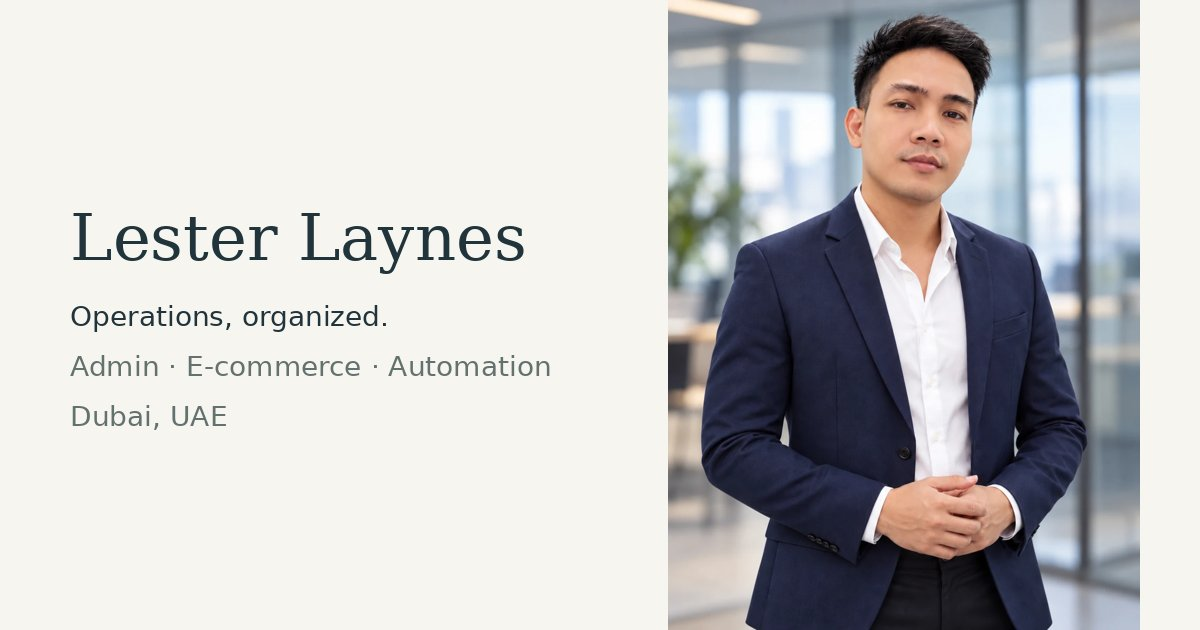
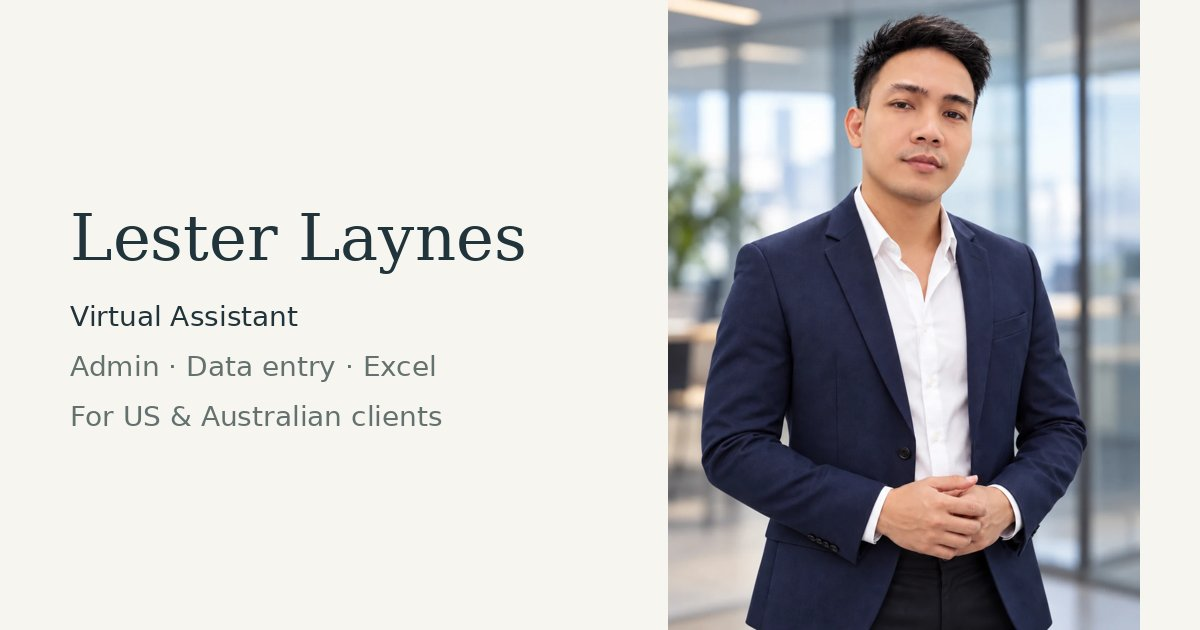
Reposition portfolio for virtual assistant work (#5)
- Hero, title and link previews now present Lester as a general and
  data/Excel VA for US and Australian clients
- New Services section (6 services) moved up, right after the hero
- Tools list updated; add a 'Currently learning' row (QuickBooks,
  Notion, Trello)
- New 'How it works' section: call, trial task, ongoing support
- About and contact copy updated for VA clients
- Refresh og-image.jpg

Claude-Session: https://claude.ai/code/session_01KvsZ7ZfdfPQhewqcLSKBxM

Changed region(s): [[0.0617, 0.6333, 0.37, 0.6937], [0.0617, 0.4825, 0.3392, 0.5429], [0.1542, 0.573, 0.4625, 0.6032]]

diff --git a/index.html b/index.html
@@ -3,26 +3,26 @@
   <head>
     <meta charset="utf-8" />
     <meta name="viewport" content="width=device-width, initial-scale=1" />
-    <title>Lester Laynes — Operations, Organized.</title>
+    <title>Lester Laynes — Virtual Assistant for Admin, Data & Excel</title>
     <meta
       name="description"
-      content="Lester Laynes is a Dubai-based administrative and e-commerce operations professional. Explore inventory workflows, Excel automation, and practical systems built around real work."
+      content="Lester Laynes is a general and data/Excel virtual assistant. Inbox and calendar support, data entry and cleanup, Excel and Google Sheets, and e-commerce support for US and Australian clients."
     />
     <meta name="theme-color" content="#f6f5ef" />
     <meta
       property="og:title"
-      content="Lester Laynes — Operations, Organized."
+      content="Lester Laynes — Virtual Assistant for Admin, Data & Excel"
     />
     <meta
       property="og:description"
-      content="Administrative support, e-commerce operations, and practical automation. Based in Dubai. Built around real work."
+      content="General and data/Excel virtual assistant. Admin support, data entry, spreadsheets, and e-commerce tasks, handled with care."
     />
     <meta property="og:type" content="website" />
     <meta property="og:url" content="https://lester-personal-portfolio.vercel.app/" />
     <meta property="og:image" content="https://lester-personal-portfolio.vercel.app/og-image.jpg" />
     <meta property="og:image:width" content="1200" />
     <meta property="og:image:height" content="630" />
-    <meta property="og:image:alt" content="Lester Laynes — Operations, organized. Admin, e-commerce and automation, Dubai, UAE" />
+    <meta property="og:image:alt" content="Lester Laynes — Virtual assistant for admin, data and Excel work" />
     <meta name="twitter:card" content="summary_large_image" />
     <link rel="canonical" href="https://lester-personal-portfolio.vercel.app/" />
     <link rel="icon" href="/favicon.svg" type="image/svg+xml" />
@@ -37,8 +37,8 @@
         >Lester Laynes<span class="brand-dot">.</span></a
       >
       <nav aria-label="Main navigation">
-        <a href="#work">Selected work</a><a href="#expertise">Expertise</a
-        ><a href="#about">About</a>
+        <a href="#services">Services</a><a href="#work">Sample work</a
+        ><a href="#process">How it works</a><a href="#about">About</a>
       </nav>
       <a class="header-contact" href="#contact"
         >Let’s connect <span aria-hidden="true">↗</span></a
@@ -48,31 +48,32 @@
       <section class="hero wrap" aria-labelledby="hero-title">
         <div class="hero-copy">
           <div class="eyebrow">
-            <span class="tiny-star" aria-hidden="true">✳</span> ADMIN ·
-            E-COMMERCE · AUTOMATION
+            <span class="tiny-star" aria-hidden="true">✳</span> VIRTUAL
+            ASSISTANT · ADMIN · DATA & EXCEL
           </div>
           <h1 id="hero-title">
-            I bring order<br />to busy<br /><em>operations.</em>
+            I take the<br />busywork off<br /><em>your plate.</em>
           </h1>
           <p class="hero-intro">
-            Hi, I’m Lester. I connect the details, people, and systems that keep
-            day-to-day work moving.
+            Hi, I’m Lester, a general and data/Excel virtual assistant. I handle
+            the inbox, admin tasks, data entry, and spreadsheets, so you can focus
+            on running your business.
           </p>
           <div class="hero-actions">
-            <a class="button dark" href="#work"
-              >Explore my work <span aria-hidden="true">↘</span></a
+            <a class="button dark" href="#services"
+              >See how I can help <span aria-hidden="true">↘</span></a
             ><a class="text-link" href="/Lester_Laynes_Resume.pdf" download
               >Download my CV <span aria-hidden="true">↓</span></a
             >
           </div>
           <p class="hero-location">
-            <span class="location-dot" aria-hidden="true"></span> Dubai, UAE
-            <span class="slash">/</span> Open to remote opportunities
+            <span class="location-dot" aria-hidden="true"></span> Based in Dubai
+            <span class="slash">/</span> Working remotely with US & Australian clients
           </p>
         </div>
         <div class="hero-visual">
           <div class="photo-label">
-            <span class="label-dot"></span> THE PERSON BEHIND THE PROCESS
+            <span class="label-dot"></span> YOUR REMOTE RIGHT HAND
           </div>
           <img
             class="portrait"
@@ -85,23 +86,103 @@
           <div class="photo-note">
             <span class="note-icon" aria-hidden="true">↗</span>
             <div>
-              Thoughtful support.<br /><strong>Practical solutions.</strong>
+              Organized support.<br /><strong>Reliable follow-through.</strong>
             </div>
           </div>
           <span class="portrait-index" aria-hidden="true">01 — LL</span>
         </div>
       </section>
       <div class="intro-band wrap">
-        <p><strong>7+ years</strong><span>in retail & operations</span></p>
+        <p><strong>7+ years</strong><span>in admin, retail & operations</span></p>
         <p>
-          <strong>Hands-on experience</strong
-          ><span>from warehouse floor to spreadsheet</span>
+          <strong>Excel & Google Sheets</strong
+          ><span>from data entry to automation</span>
         </p>
         <p>
-          <strong>A systems mindset</strong
-          ><span>make recurring work easier</span>
+          <strong>Detail-first</strong
+          ><span>accurate records, clear follow-ups</span>
         </p>
       </div>
+      <section
+        class="section expertise-section wrap"
+        id="services"
+        aria-labelledby="services-title"
+      >
+        <div class="section-top">
+          <div>
+            <p class="eyebrow">01 / SERVICES</p>
+            <h2 id="services-title">
+              What I can take<br /><em>off your plate.</em>
+            </h2>
+          </div>
+          <p class="section-intro">
+            General admin support and data/Excel work for busy business owners
+            and small teams.
+          </p>
+        </div>
+        <div class="expertise-list">
+          <div class="expertise-row">
+            <span class="row-number">01</span>
+            <h3>Inbox & calendar</h3>
+            <p>
+              Email triage, replies, follow-ups, meeting scheduling, and reminders, so nothing important slips through.
+            </p>
+            <span aria-hidden="true"></span>
+          </div>
+          <div class="expertise-row">
+            <span class="row-number">02</span>
+            <h3>Admin & documents</h3>
+            <p>
+              Document prep and formatting, Google Drive and file organization, records, forms, and purchase requests.
+            </p>
+            <span aria-hidden="true"></span>
+          </div>
+          <div class="expertise-row">
+            <span class="row-number">03</span>
+            <h3>Data entry & cleanup</h3>
+            <p>
+              Fast, accurate data entry, CSV imports, removing duplicates, and turning messy lists into clean, usable records.
+            </p>
+            <span aria-hidden="true"></span>
+          </div>
+          <div class="expertise-row">
+            <span class="row-number">04</span>
+            <h3>Excel & Google Sheets</h3>
+            <p>
+              Trackers, reports, lookup formulas, reconciliation, simple dashboards, and VBA to automate repetitive steps.
+            </p>
+            <span aria-hidden="true"></span>
+          </div>
+          <div class="expertise-row">
+            <span class="row-number">05</span>
+            <h3>E-commerce support</h3>
+            <p>
+              Product listings on Shopify and Noon, order processing, inventory updates, and customer inquiry support.
+            </p>
+            <span aria-hidden="true"></span>
+          </div>
+          <div class="expertise-row">
+            <span class="row-number">06</span>
+            <h3>Research & SOPs</h3>
+            <p>
+              Web, supplier, and product research, organized into clear lists, plus step-by-step SOPs your team can follow.
+            </p>
+            <span aria-hidden="true"></span>
+          </div>
+        </div>
+        <div class="toolbelt">
+          <span>TOOLS I USE</span>
+          <div>
+            <b>Excel</b><b>Google Workspace</b><b>Microsoft 365</b
+            ><b>Shopify</b><b>Noon Seller</b><b>Canva</b><b>ChatGPT</b
+            ><b>Zoom & Teams</b><b>WhatsApp Business</b>
+          </div>
+        </div>
+        <div class="toolbelt learning">
+          <span>CURRENTLY LEARNING</span>
+          <div><b>QuickBooks</b><b>Notion</b><b>Trello</b></div>
+        </div>
+      </section>
       <section
         class="work-section section wrap"
         id="work"
@@ -109,7 +190,7 @@
       >
         <div class="section-top">
           <div>
-            <p class="eyebrow">01 / SELECTED WORK</p>
+            <p class="eyebrow">02 / SAMPLE WORK</p>
             <h2 id="work-title">Real work.<br /><em>Useful solutions.</em></h2>
           </div>
           <p class="section-intro">
@@ -375,67 +456,47 @@
         </div>
       </section>
       <section
-        class="section expertise-section wrap"
-        id="expertise"
-        aria-labelledby="expertise-title"
+        class="section process-section wrap"
+        id="process"
+        aria-labelledby="process-title"
       >
         <div class="section-top">
           <div>
-            <p class="eyebrow">02 / HOW I CAN HELP</p>
-            <h2 id="expertise-title">
-              Reliable support.<br /><em>From the details up.</em>
+            <p class="eyebrow">03 / HOW IT WORKS</p>
+            <h2 id="process-title">
+              Simple to start.<br /><em>Easy to rely on.</em>
             </h2>
           </div>
           <p class="section-intro">
-            I’m at my best where coordination, accurate data, and a better way
-            of doing things meet.
+            Flexible hours with overlap for US and Australian time zones.
           </p>
         </div>
-        <div class="expertise-list">
-          <div class="expertise-row">
+        <ol class="process-steps">
+          <li>
             <span class="row-number">01</span>
-            <h3>Administrative support</h3>
+            <h3>A quick call</h3>
             <p>
-              Documents, records, purchase requests, professional emails,
-              follow-ups, and day-to-day coordination.
+              Tell me about your tasks, tools, and working hours. I’ll ask the
+              questions that make handover easy.
             </p>
-            <span aria-hidden="true"></span>
-          </div>
-          <div class="expertise-row">
+          </li>
+          <li>
             <span class="row-number">02</span>
-            <h3>E-commerce operations</h3>
+            <h3>A small trial task</h3>
             <p>
-              Product and catalog data, order support, pricing records,
-              replenishment tracking, and delivery coordination.
+              Start with one real task so you can see how I work before
+              committing to more.
             </p>
-            <span aria-hidden="true"></span>
-          </div>
-          <div class="expertise-row">
+          </li>
+          <li>
             <span class="row-number">03</span>
-            <h3>Inventory & logistics</h3>
+            <h3>Ongoing support</h3>
             <p>
-              Receiving, stock transfers, returns, item verification, warehouse
-              locations, and store reporting.
+              Clear updates, end-of-day summaries, and documented processes,
+              so you always know what’s done.
             </p>
-            <span aria-hidden="true"></span>
-          </div>
-          <div class="expertise-row">
-            <span class="row-number">04</span>
-            <h3>Data & automation</h3>
-            <p>
-              Excel reports, CSV imports, data cleanup, VBA workflows, and
-              simple database-backed tools.
-            </p>
-            <span aria-hidden="true"></span>
-          </div>
-        </div>
-        <div class="toolbelt">
-          <span>MY EVERYDAY TOOLKIT</span>
-          <div>
-            <b>Excel</b><b>Google Sheets</b><b>Microsoft Access</b
-            ><b>PHP / PostgreSQL</b><b>VB.NET</b><b>GitHub</b>
-          </div>
-        </div>
+          </li>
+        </ol>
       </section>
       <section
         class="about-section wrap"
@@ -443,7 +504,7 @@
         aria-labelledby="about-title"
       >
         <div class="about-aside">
-          <p class="eyebrow">03 / A LITTLE ABOUT ME</p>
+          <p class="eyebrow">04 / A LITTLE ABOUT ME</p>
           <div class="about-monogram" aria-hidden="true">
             L<span>L</span><i>✳</i>
           </div>
@@ -459,10 +520,10 @@
             spreadsheet, follow-up, and system.
           </p>
           <p>
-            I’m Lester Lloyd H. Laynes, an IT graduate who enjoys making
-            operations more organized. I bring practical experience with the
-            people and processes behind the data, along with the curiosity to
-            build tools that help.
+            I’m Lester Lloyd H. Laynes, an IT graduate who enjoys making work
+            more organized. Now I offer that experience as a virtual assistant:
+            the same care for accurate data, clear communication, and follow-up,
+            delivered remotely for your business.
           </p>
           <div class="experience">
             <div>
@@ -495,8 +556,8 @@
             A good next step<br />starts with <em>hello.</em>
           </h2>
           <p>
-            Looking for thoughtful admin, e-commerce, or inventory support?<br />I’d
-            be happy to hear about your team.
+            Need a reliable VA for admin, data entry, or Excel work?<br />Tell me
+            what’s on your plate, and let’s talk.
           </p>
           <a class="contact-email" href="mailto:lesterlh.laynes@gmail.com"
             >lesterlh.laynes@gmail.com <span aria-hidden="true">↗</span></a

diff --git a/style.css b/style.css
@@ -1023,6 +1023,7 @@ select {
   gap: 45px;
 }
 .toolbelt > span {
+  min-width: 120px;
   font-size: 8px;
   letter-spacing: 1px;
   color: #8b9484;
@@ -1036,6 +1037,45 @@ select {
 .toolbelt b {
   font-size: 11px;
   font-weight: 400;
+}
+.toolbelt.learning {
+  margin-top: 14px;
+}
+.toolbelt.learning b {
+  color: var(--muted);
+  font-style: italic;
+}
+.process-steps {
+  list-style: none;
+  margin: 0;
+  padding: 30px 0 0;
+  border-top: 1px solid var(--line);
+  display: grid;
+  grid-template-columns: repeat(3, 1fr);
+  gap: 40px;
+}
+.process-steps h3 {
+  font-family: var(--serif);
+  font-size: 26px;
+  letter-spacing: -0.7px;
+  font-weight: 400;
+  margin: 12px 0 8px;
+  line-height: 1.3;
+}
+.process-steps p {
+  font-size: 12px;
+  color: var(--muted);
+  margin: 0;
+  max-width: 320px;
+}
+@media (max-width: 680px) {
+  .process-steps {
+    grid-template-columns: 1fr;
+    gap: 28px;
+  }
+  .toolbelt > span {
+    min-width: 0;
+  }
 }
 .about-section {
   display: grid;
